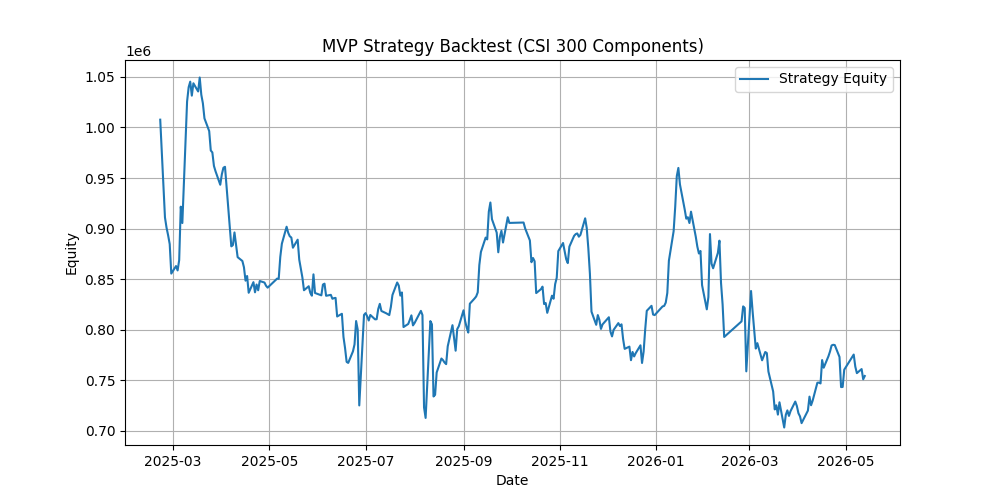
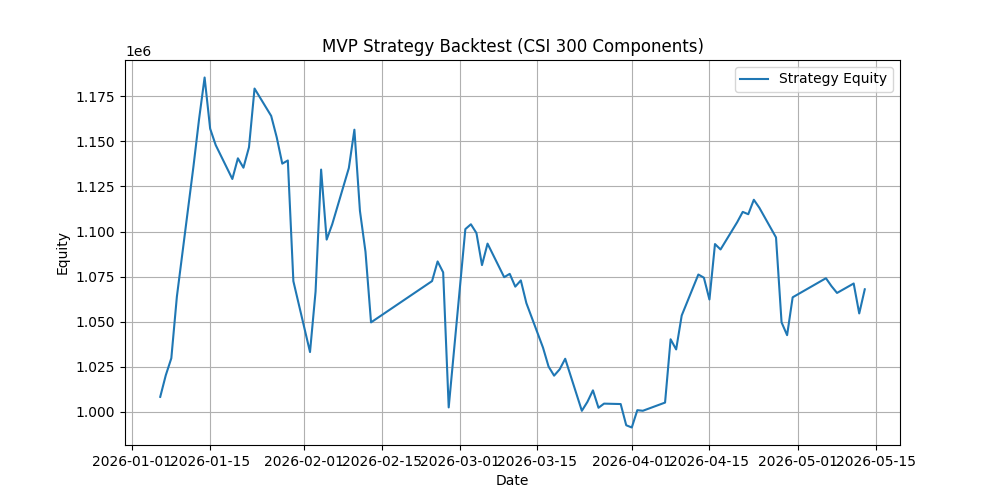
update MVP

diff --git a/src/dataset.py b/src/dataset.py
@@ -4,7 +4,7 @@ import pandas as pd
 import numpy as np
 
 class StockSequenceDataset(Dataset):
-    def __init__(self, df, feature_cols, target_col, seq_len=30):
+    def __init__(self, df, feature_cols, target_col, seq_len=30, target_date_start=None, target_date_end=None):
         """
         df: pre-sorted dataframe by 'ts_code' and 'trade_date'
         """
@@ -13,6 +13,12 @@ class StockSequenceDataset(Dataset):
         self.targets = []
         self.dates = []
         self.codes = []
+        
+        # Ensure target dates are strings for comparison with group_dates (which were cast to str)
+        if target_date_start is not None:
+            target_date_start = pd.to_datetime(target_date_start).strftime('%Y-%m-%d')
+        if target_date_end is not None:
+            target_date_end = pd.to_datetime(target_date_end).strftime('%Y-%m-%d')
         
         # We must create sequences for each stock independently
         grouped = df.groupby('ts_code')
@@ -27,6 +33,14 @@ class StockSequenceDataset(Dataset):
             
             # Create sliding windows
             for i in range(len(group) - seq_len + 1):
+                target_date = group_dates[i + seq_len - 1]
+                
+                # Filter by actual target date to ensure strict no-overlap
+                if target_date_start is not None and target_date < target_date_start:
+                    continue
+                if target_date_end is not None and target_date > target_date_end:
+                    continue
+                    
                 self.features.append(group_features[i : i + seq_len])
                 # Target is the label of the LAST day in the sequence
                 # (which corresponds to the forward 1-day return after the sequence ends)
@@ -55,29 +69,34 @@ def get_dataloaders(parquet_path, seq_len=30, batch_size=512):
     feature_cols = [c for c in df.columns if c not in ['ts_code', 'trade_date', target_col]]
     print(f"Using {len(feature_cols)} features: {feature_cols}")
 
-    # Train/Val Split (Time based)
-    # Train: 2016-01-01 to 2024-12-31
-    # Val: 2025-01-01 to 2026-05-14
-    train_df = df[(df['trade_date'] >= '2016-01-01') & (df['trade_date'] <= '2024-12-31')].copy()
-    val_df = df[(df['trade_date'] >= '2025-01-01') & (df['trade_date'] <= '2026-05-14')].copy()
-
-    print(f"Train samples: {len(train_df)}, Val samples: {len(val_df)}")
+    # Train/Val/Test Split (Time based filtering on targets)
+    train_start, train_end = pd.to_datetime('2013-01-01'), pd.to_datetime('2024-12-31')
+    val_start, val_end = pd.to_datetime('2025-01-01'), pd.to_datetime('2025-12-31')
+    test_start, test_end = pd.to_datetime('2026-01-01'), pd.to_datetime('2026-12-31')
 
     # Standardization (Fit on train ONLY to prevent data leakage)
-    mean = train_df[feature_cols].mean()
-    std = train_df[feature_cols].std() + 1e-8 # prevent division by zero
+    train_mask = (df['trade_date'] >= train_start) & (df['trade_date'] <= train_end)
+    mean = df[train_mask][feature_cols].mean()
+    std = df[train_mask][feature_cols].std() + 1e-8 # prevent division by zero
 
-    train_df.loc[:, feature_cols] = (train_df[feature_cols] - mean) / std
-    val_df.loc[:, feature_cols] = (val_df[feature_cols] - mean) / std
+    # Apply standardization globally
+    df.loc[:, feature_cols] = (df[feature_cols] - mean) / std
 
     print("Building datasets (sliding windows)... this may take a moment.")
-    train_dataset = StockSequenceDataset(train_df, feature_cols, target_col, seq_len=seq_len)
-    val_dataset = StockSequenceDataset(val_df, feature_cols, target_col, seq_len=seq_len)
+    train_dataset = StockSequenceDataset(df, feature_cols, target_col, seq_len=seq_len, 
+                                         target_date_start=train_start, target_date_end=train_end)
+    val_dataset = StockSequenceDataset(df, feature_cols, target_col, seq_len=seq_len,
+                                       target_date_start=val_start, target_date_end=val_end)
+    test_dataset = StockSequenceDataset(df, feature_cols, target_col, seq_len=seq_len,
+                                        target_date_start=test_start, target_date_end=test_end)
 
-    train_loader = DataLoader(train_dataset, batch_size=batch_size, shuffle=True, drop_last=True)
-    val_loader = DataLoader(val_dataset, batch_size=batch_size, shuffle=False)
+    print(f"Train targets: {len(train_dataset)}, Val targets: {len(val_dataset)}, Test targets: {len(test_dataset)}")
 
-    return train_loader, val_loader, len(feature_cols)
+    train_loader = DataLoader(train_dataset, batch_size=batch_size, shuffle=True, drop_last=True, pin_memory=True)
+    val_loader = DataLoader(val_dataset, batch_size=batch_size, shuffle=False, pin_memory=True)
+    test_loader = DataLoader(test_dataset, batch_size=batch_size, shuffle=False, pin_memory=True)
+
+    return train_loader, val_loader, test_loader, len(feature_cols)
 
 if __name__ == "__main__":
     # Test

diff --git a/src/backtest.py b/src/backtest.py
@@ -14,8 +14,8 @@ def generate_predictions(model_path, data_path, seq_len=30, batch_size=512):
     device = torch.device('cuda' if torch.cuda.is_available() else 'cpu')
     print(f"Using device for prediction: {device}")
     
-    # We only need val_loader for predictions
-    _, val_loader, num_features = get_dataloaders(data_path, seq_len=seq_len, batch_size=batch_size)
+    # We only need test_loader for predictions (backtest on test set)
+    _, _, test_loader, num_features = get_dataloaders(data_path, seq_len=seq_len, batch_size=batch_size)
     
     model = StockGRU(input_size=num_features, hidden_size=64, num_layers=2).to(device)
     model.load_state_dict(torch.load(model_path, map_location=device, weights_only=True))
@@ -27,7 +27,7 @@ def generate_predictions(model_path, data_path, seq_len=30, batch_size=512):
     
     print("Generating predictions...")
     with torch.no_grad():
-        for X, _, dates, codes in tqdm(val_loader):
+        for X, _, dates, codes in tqdm(test_loader):
             X = X.to(device)
             preds = model(X).cpu().numpy()
             

diff --git a/src/train.py b/src/train.py
@@ -68,7 +68,7 @@ def main():
     
     # Hyperparameters
     seq_len = 30
-    batch_size = 512
+    batch_size = 4096  # 大幅提升 batch_size 榨干 GPU 算力
     epochs = 20
     lr = 0.001
     patience = 5
@@ -76,7 +76,7 @@ def main():
     data_path = '../data/processed/csi300_features.parquet'
     
     print("Preparing Dataloaders...")
-    train_loader, val_loader, num_features = get_dataloaders(data_path, seq_len=seq_len, batch_size=batch_size)
+    train_loader, val_loader, test_loader, num_features = get_dataloaders(data_path, seq_len=seq_len, batch_size=batch_size)
     
     print("Initializing Model...")
     model = StockGRU(input_size=num_features, hidden_size=64, num_layers=2).to(device)
